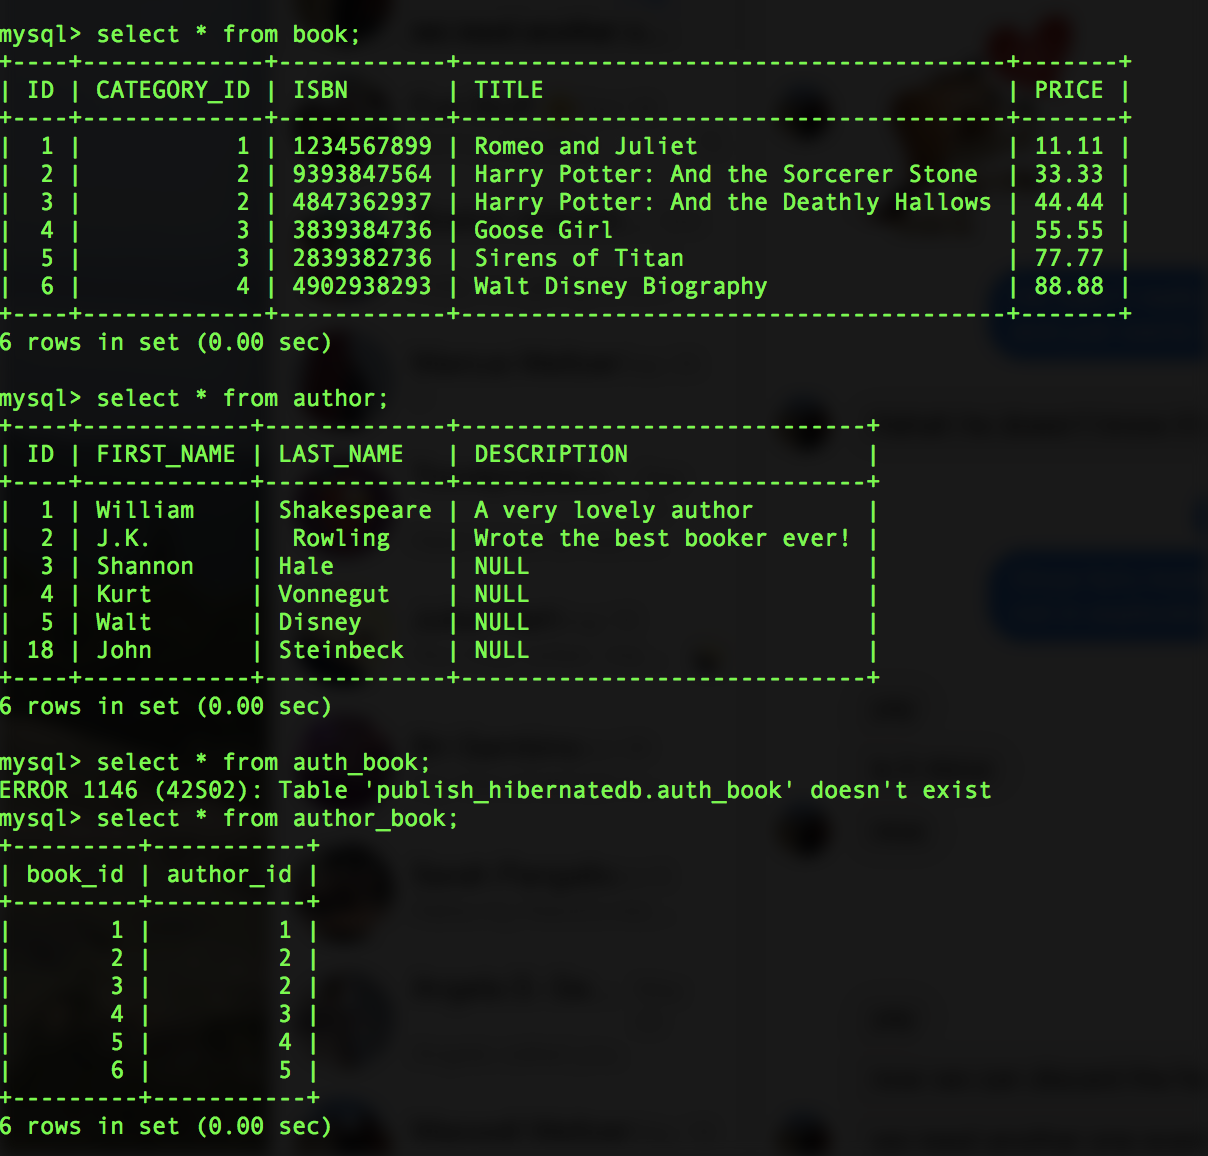
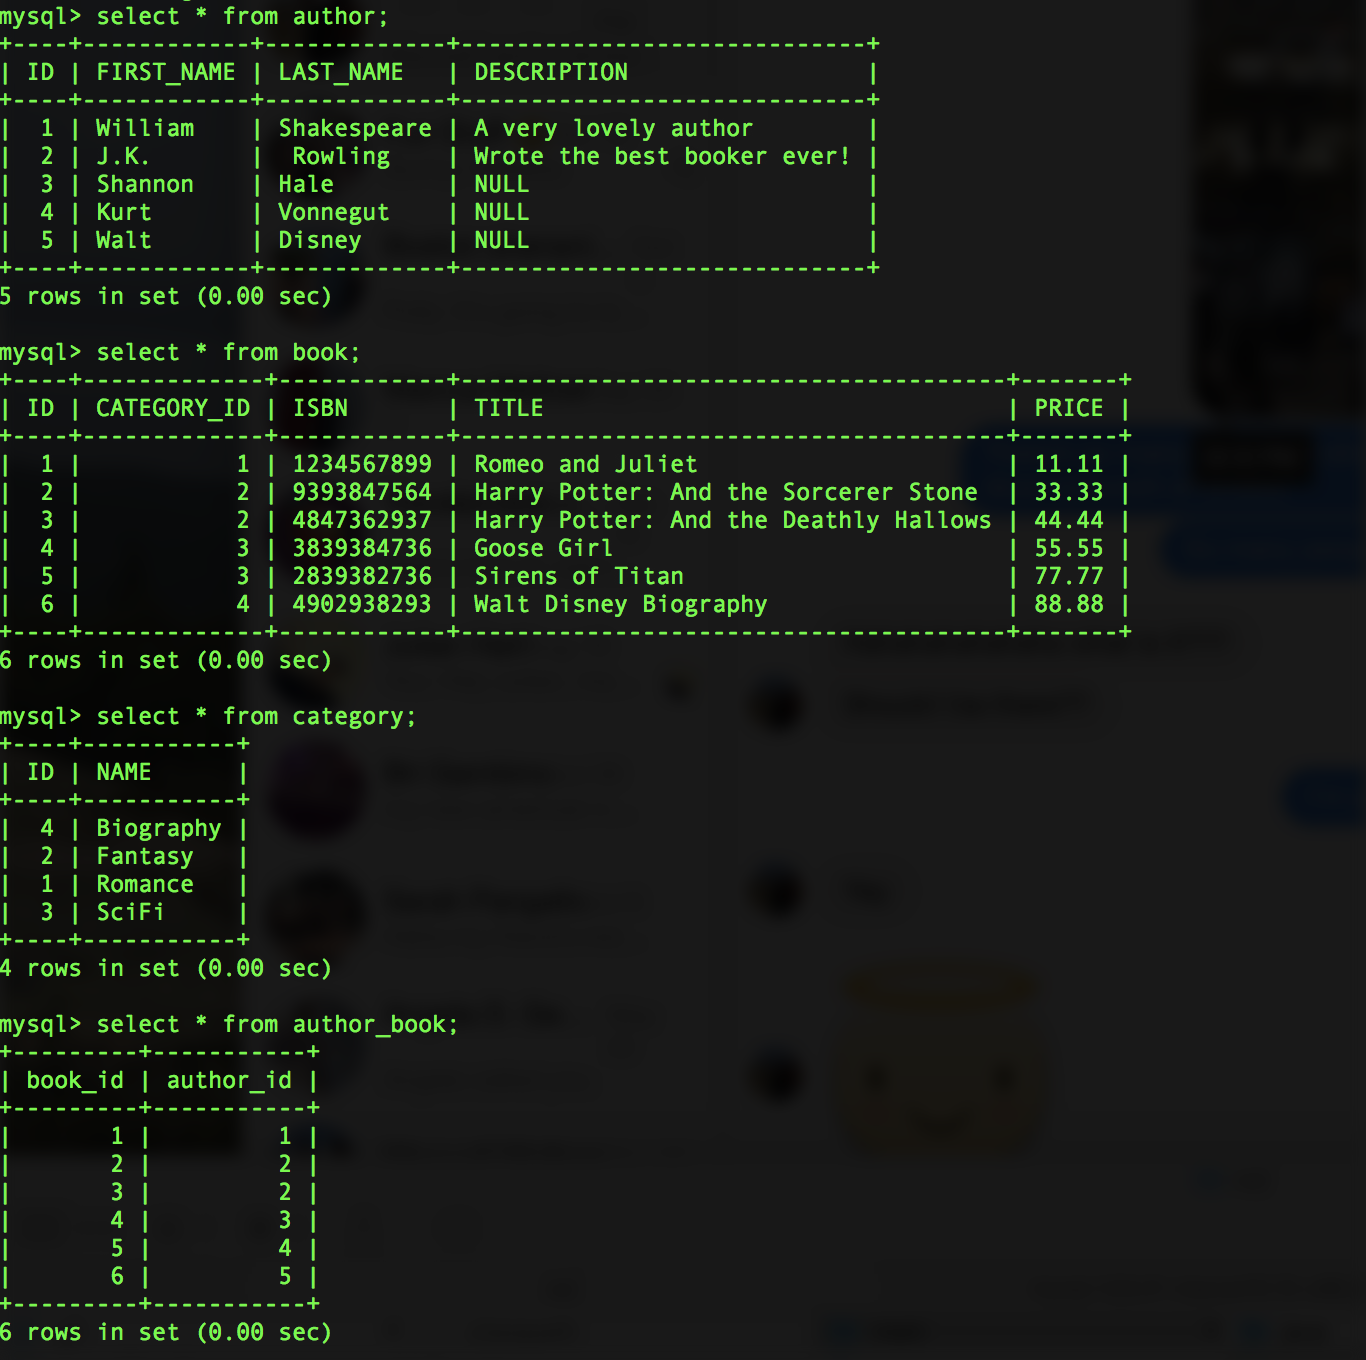
fixed delete

diff --git a/spring-jpa2-2pt3/src/main/java/com/assignment3/part3/jpa2/app/service/PublishingServiceImpl.java b/spring-jpa2-2pt3/src/main/java/com/assignment3/part3/jpa2/app/service/PublishingServiceImpl.java
@@ -3,6 +3,7 @@ package com.assignment3.part3.jpa2.app.service;
 import java.util.List;
 
 import javax.persistence.EntityManager;
+import javax.persistence.EntityTransaction;
 import javax.persistence.PersistenceContext;
 import javax.persistence.TypedQuery;
 import javax.persistence.criteria.CriteriaBuilder;
@@ -87,24 +88,10 @@ public class PublishingServiceImpl implements PublishingService{
         return book;
 	}
 
-	public void delete(Long idBook) {
-		//Get instance of criteria builder
-		CriteriaBuilder cb = em.getCriteriaBuilder();
-		
-		//create the cirteria delete object
-    	CriteriaDelete<Book> delete = cb.createCriteriaDelete(Book.class);
-    	
-    	//Set Book as the root class where we want to delete from
-    	Root e = delete.from(Book.class);
-    	
-    	//where clause
-    	delete.where(cb.equal(e.get("id"), idBook));
-    	
-    	em.createQuery(delete).executeUpdate();
-    	
-    	
-    	
-		
+	public void delete(Book book) {
+		Book b1 = em.find(Book.class,book.getId());
+        em.remove(b1);
+
 	}
 
 	@Transactional(readOnly=true)

diff --git a/spring-jpa2-2pt3/src/main/java/com/assignment3/part3/jpa2/app/domain/Author.java b/spring-jpa2-2pt3/src/main/java/com/assignment3/part3/jpa2/app/domain/Author.java
@@ -24,7 +24,7 @@ public class Author extends AbstractEntity {
 			joinColumns = @JoinColumn(name = "AUTHOR_ID"),
 			// this describes the foreign key from the author table to the book table
 			inverseJoinColumns = @JoinColumn(name = "BOOK_ID"))
-	private Set<Author> authors = new HashSet<Author>();
+	private Set<Book> books = new HashSet<Book>();
 
 
 	public String getFirstName() {
@@ -51,12 +51,12 @@ public class Author extends AbstractEntity {
 		this.description = description;
 	}
 
-	public Set<Author> getAuthors() {
-		return authors;
+	public Set<Book> getBooks() {
+		return books;
 	}
 
-	public void setAuthors(Set<Author> authors) {
-		this.authors = authors;
+	public void setAuthors(Set<Book> books) {
+		this.books = books;
 	}
 
 	@Override

diff --git a/spring-jpa2-2pt3/src/main/java/com/assignment3/part3/jpa2/app/domain/Book.java b/spring-jpa2-2pt3/src/main/java/com/assignment3/part3/jpa2/app/domain/Book.java
@@ -2,6 +2,9 @@ package com.assignment3.part3.jpa2.app.domain;
 
 import javax.persistence.*;
 
+import org.hibernate.annotations.OnDelete;
+import org.hibernate.annotations.OnDeleteAction;
+
 import java.math.BigDecimal;
 import java.util.HashSet;
 import java.util.Set;
@@ -72,6 +75,9 @@ public class Book  {
 			//this describes the foreign key from the book table to the author table
 			inverseJoinColumns = @JoinColumn(name = "AUTHOR_ID"))
 	private Set<Author> authors = new HashSet<Author>();
+	
+
+	
 
 
 	

diff --git a/spring-jpa2-2pt3/src/main/java/com/assignment3/part3/jpa2/app/service/PublishingService.java b/spring-jpa2-2pt3/src/main/java/com/assignment3/part3/jpa2/app/service/PublishingService.java
@@ -15,7 +15,7 @@ public interface PublishingService {
 	
 	Book saveWithNewAuth(Book book);
 	
-	void delete(Long idBookbook);
+	void delete(Book book);
 	
 	List<Book> findAllByNativeQuery();
 
